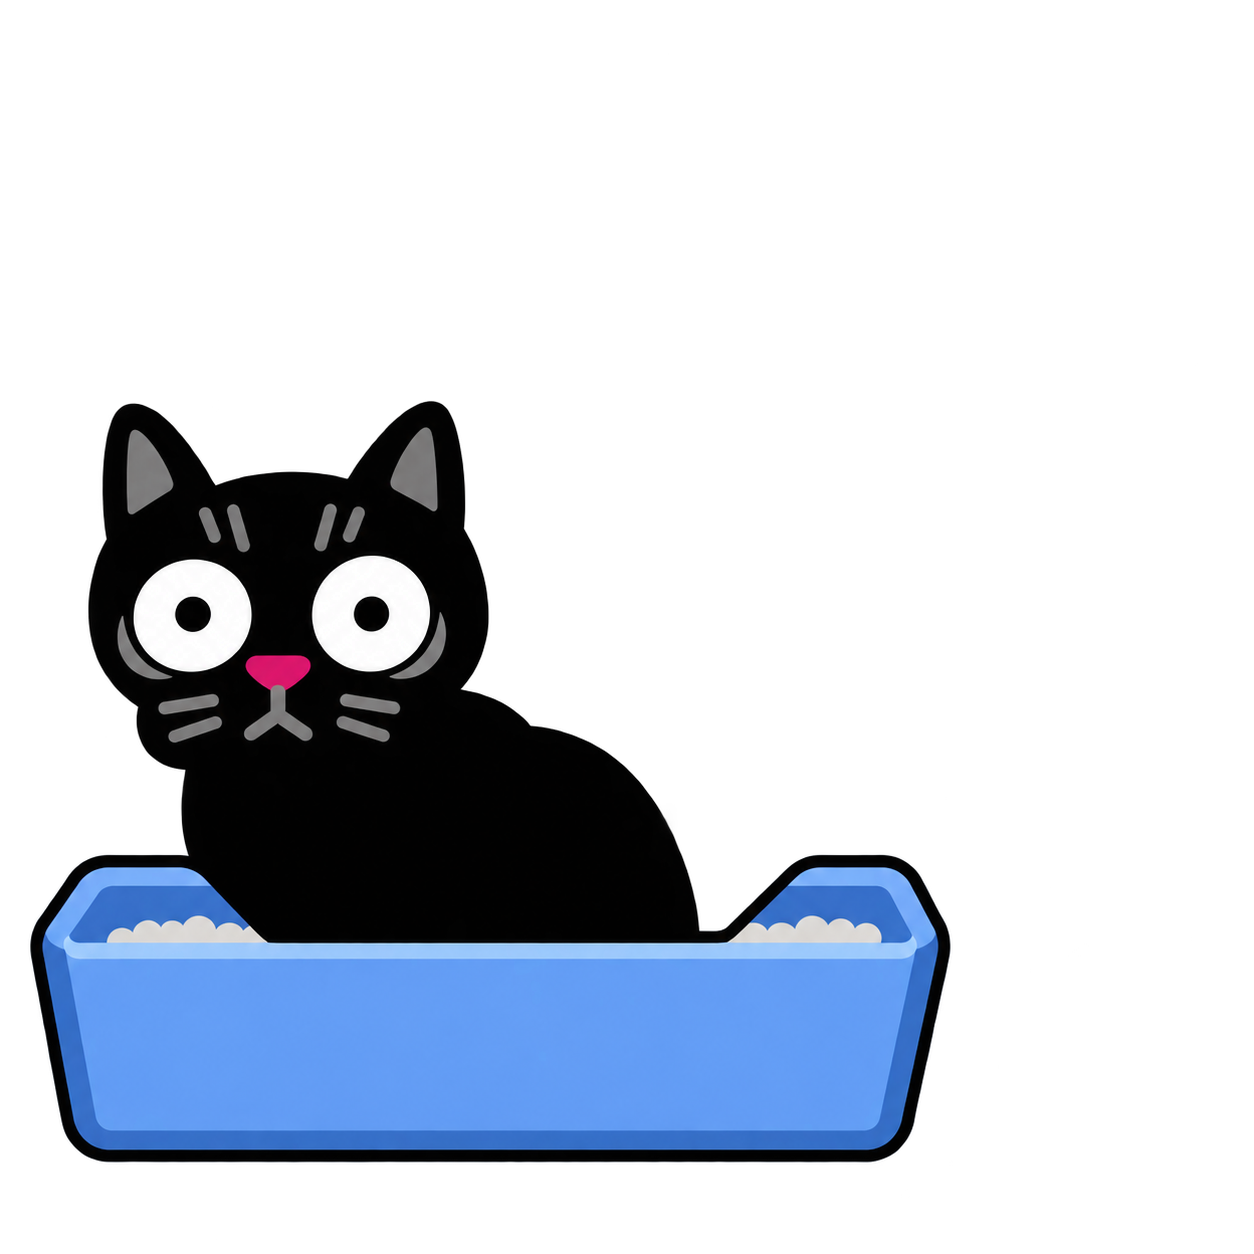
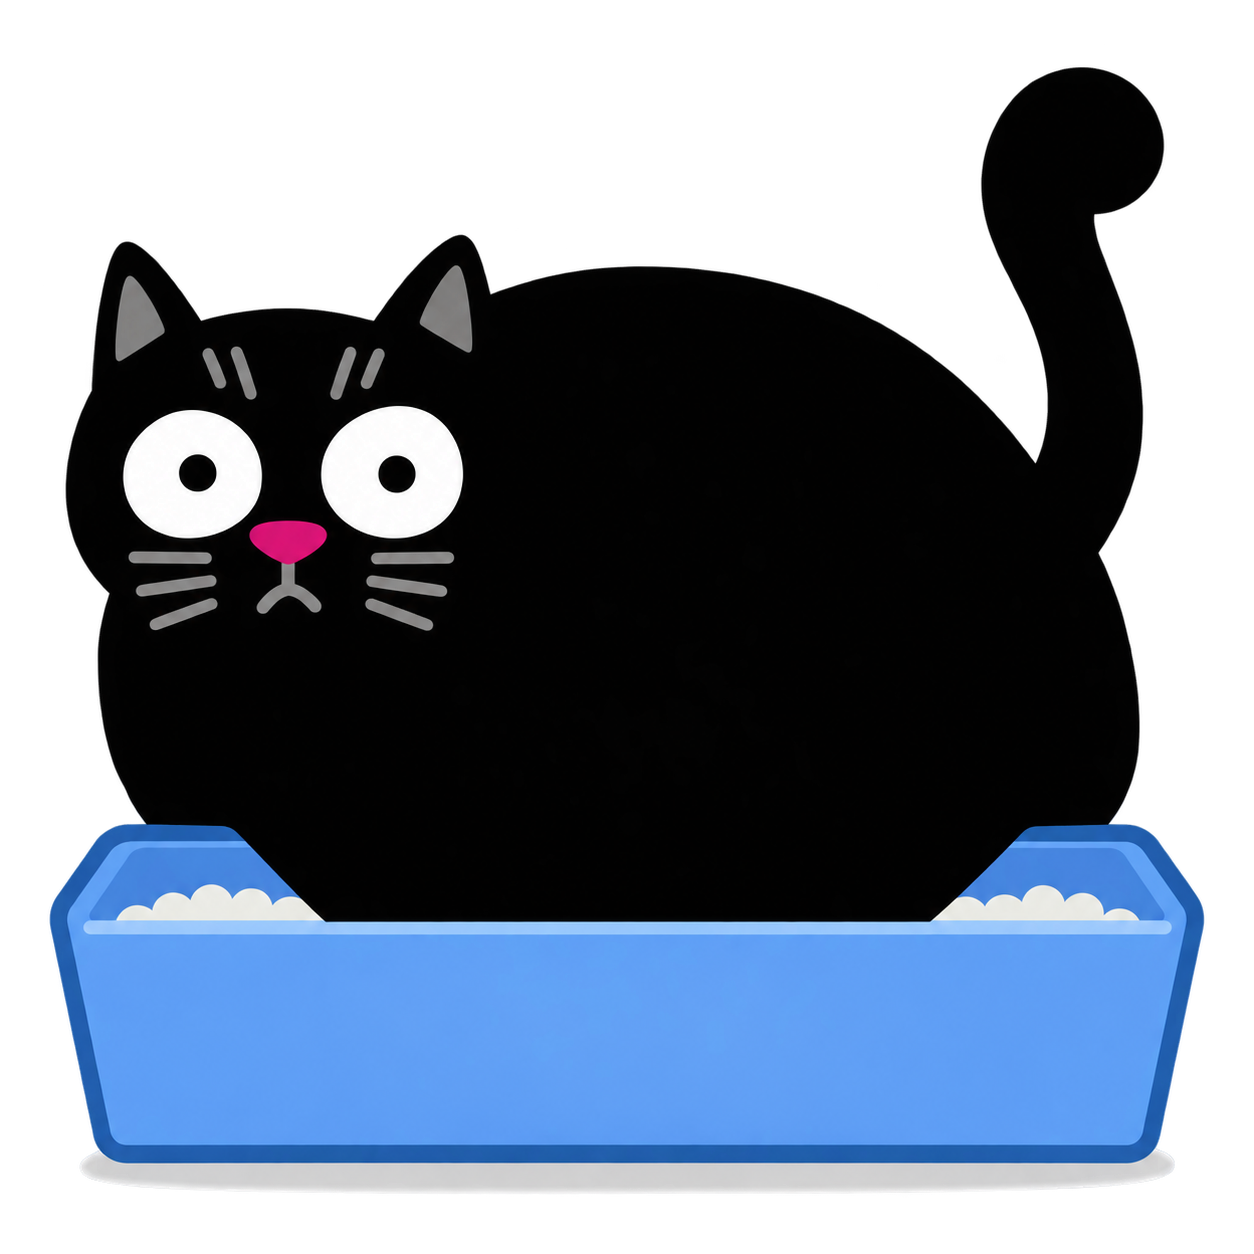
Reproduce the litter-tray cat 1:1

diff --git a/design/imagegen/cats/README.md b/design/imagegen/cats/README.md
@@ -9,5 +9,6 @@ came back with a white smear (c06, c08) or a tiny off-centre bat (c24), and four
 (the arched Halloween cat) all changed its pose or body shape, so those four stay on the iOS
 drawing. After the owner's review, c23 (the ghost had lost its black tail) was generated a third
 time with one sentence appended to the prompt describing the tail, and c16 (the cat in the pumpkin
-had come back with a different face) was generated again with ../cats-exact-prompt.txt, the
-stricter 1:1 wording, plus one sentence describing the reference.
+had come back with a different face) and c10 (the cat in the litter tray had come back small) were
+generated again with ../cats-exact-prompt.txt, the stricter 1:1 wording, plus one sentence
+describing the reference.
